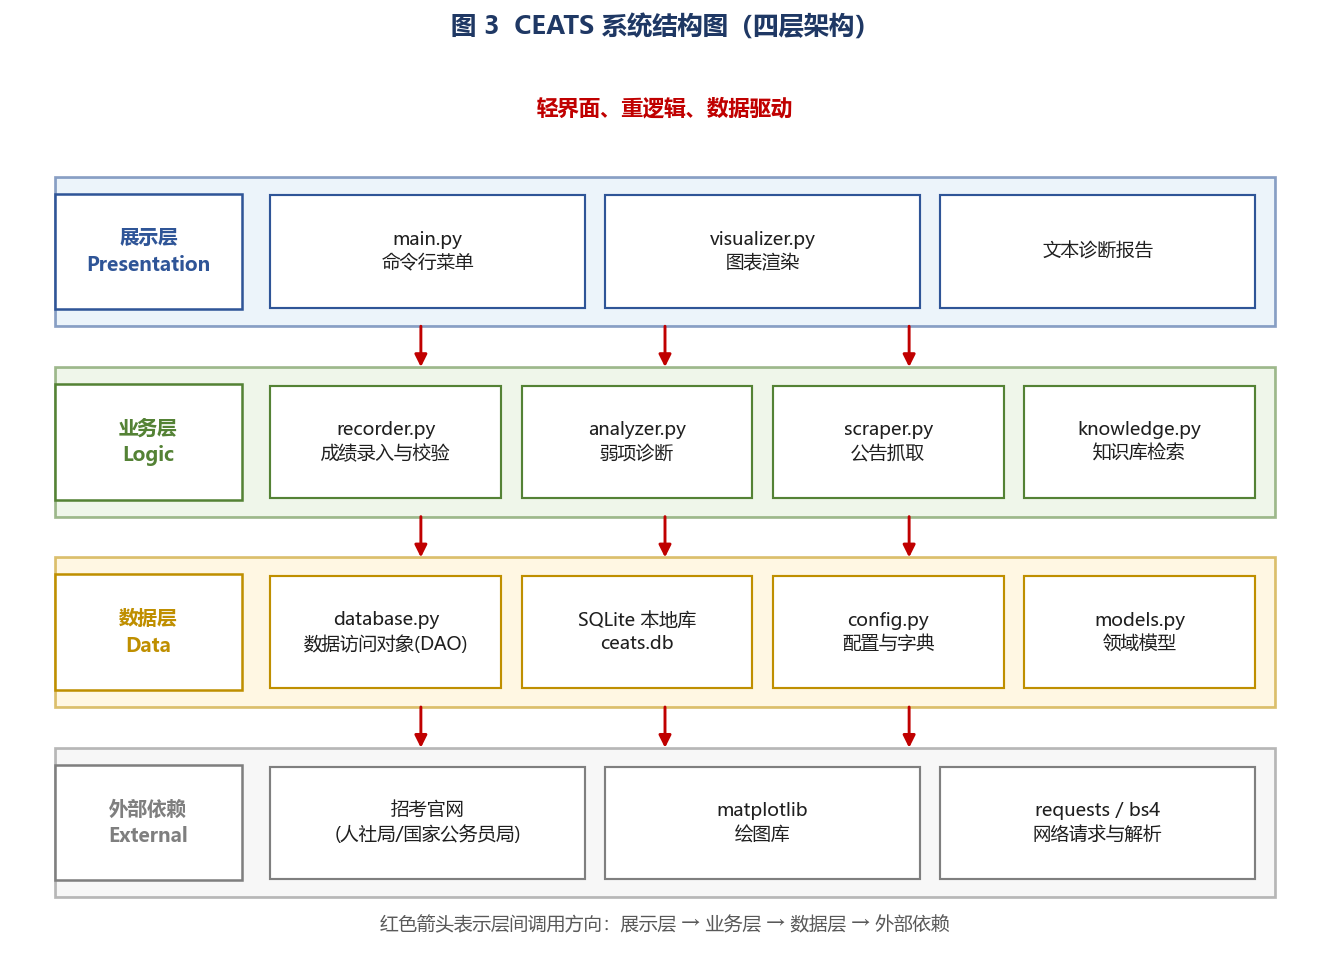
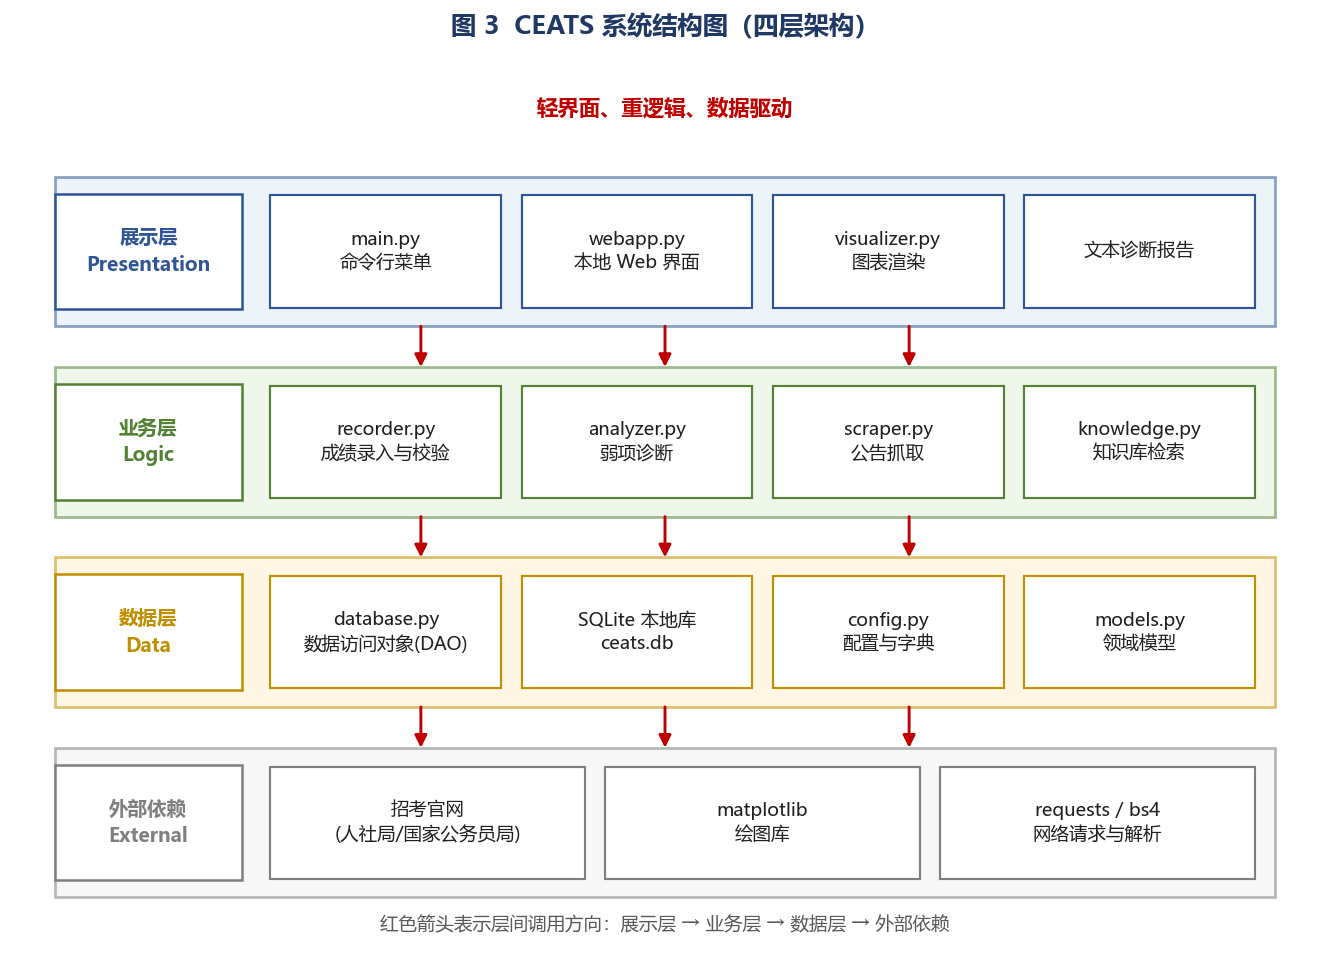
docs(diagrams): 架构图与模块依赖图补充本地 Web 展示层（webapp.py）

Changed region(s): [[0.4319, 0.2117, 0.7096, 0.3326], [0.2468, 0.2117, 0.4011, 0.3326], [0.7404, 0.2117, 0.8947, 0.3326]]

diff --git a/docs/diagrams/generate_diagrams.py b/docs/diagrams/generate_diagrams.py
@@ -270,7 +270,8 @@ def draw_architecture():
 
     bands = [
         ("展示层\nPresentation", 10.2, "#DEEBF7", "#2F5597",
-         ["main.py\n命令行菜单", "visualizer.py\n图表渲染", "文本诊断报告"]),
+         ["main.py\n命令行菜单", "webapp.py\n本地 Web 界面", "visualizer.py\n图表渲染",
+          "文本诊断报告"]),
         ("业务层\nLogic", 7.4, "#E2EFDA", "#548235",
          ["recorder.py\n成绩录入与校验", "analyzer.py\n弱项诊断",
           "scraper.py\n公告抓取", "knowledge.py\n知识库检索"]),
@@ -317,7 +318,8 @@ def draw_module_dependency():
 
     w, h = 2.4, 1.2
     nodes = {
-        "main": (6.5, 11.4, 4.4, 1.3),
+        "main": (4.6, 11.4, 4.0, 1.3),
+        "webapp": (11.2, 11.4, 4.0, 1.3),
         "recorder": (2.0, 8.8, w, h),
         "analyzer": (4.8, 8.8, w, h),
         "scraper": (7.6, 8.8, w, h),
@@ -330,17 +332,20 @@ def draw_module_dependency():
     for name, (cx, cy, bw, bh) in nodes.items():
         fc = C_MOD_FILL if name in ("models", "config") else C_FILL
         ec = C_MOD_EDGE if name in ("models", "config") else C_EDGE
-        if name == "main":
+        if name in ("main", "webapp"):
             fc, ec = "#FCE4D6", "#C55A11"
         box(ax, cx, cy, bw, bh, "%s.py" % name, fs=10.5, fc=fc, ec=ec, lw=1.4, bold=True, z=4)
 
-    # main -> 业务层各模块
-    for x, tx in [(5.0, 2.0), (5.6, 4.8), (6.4, 7.6), (7.2, 10.4), (8.0, 13.2)]:
+    # main / webapp -> 业务层各模块（同为展示层入口，各司其职）
+    for x, tx in [(3.6, 2.0), (4.4, 4.8), (5.2, 7.6)]:
         arrow(ax, (x, 10.75), (tx, 9.4), color="#C55A11", lw=1.2)
-    # main -> database
-    poly_arrow(ax, [(4.3, 11.4), (0.3, 11.4), (0.3, 5.8), (5.2, 5.8)], color="#C55A11", lw=1.2)
-    # main -> config
-    poly_arrow(ax, [(8.7, 11.4), (15.4, 11.4), (15.4, 2.8), (12.9, 2.8)], color="#C55A11", lw=1.2)
+    for x, tx in [(10.2, 4.8), (11.2, 10.4), (12.2, 13.2)]:
+        arrow(ax, (x, 10.75), (tx, 9.4), color="#C55A11", lw=1.2, dashed=True)
+    # main / webapp -> 数据层
+    poly_arrow(ax, [(3.0, 11.4), (0.3, 11.4), (0.3, 5.8), (5.2, 5.8)], color="#C55A11", lw=1.2)
+    poly_arrow(ax, [(12.9, 11.4), (16.6, 11.4), (16.6, 4.9), (8.8, 4.9)], color="#C55A11", lw=1.2)
+    # main / webapp -> config
+    poly_arrow(ax, [(6.4, 11.4), (15.4, 11.4), (15.4, 2.8), (12.9, 2.8)], color="#C55A11", lw=1.2)
 
     # 业务层 -> database
     arrow(ax, (2.4, 8.2), (5.6, 6.45), color=C_GRAY, lw=1.1)
@@ -366,7 +371,8 @@ def draw_module_dependency():
 
     # 图例
     box(ax, 8.6, 13.5, 16.6, 1.2,
-        "箭头方向：源模块 import 目标模块；分层摆放（main → 业务 → database → models/config）保证无环",
+        "箭头方向：源模块 import 目标模块；分层摆放（main / webapp → 业务 → database → "
+        "models/config）保证无环",
         fs=9.5, fc="#FBFBFB", ec="#BFBFBF", lw=0.9, z=3)
 
     return save(fig, "module_dependency.png")
